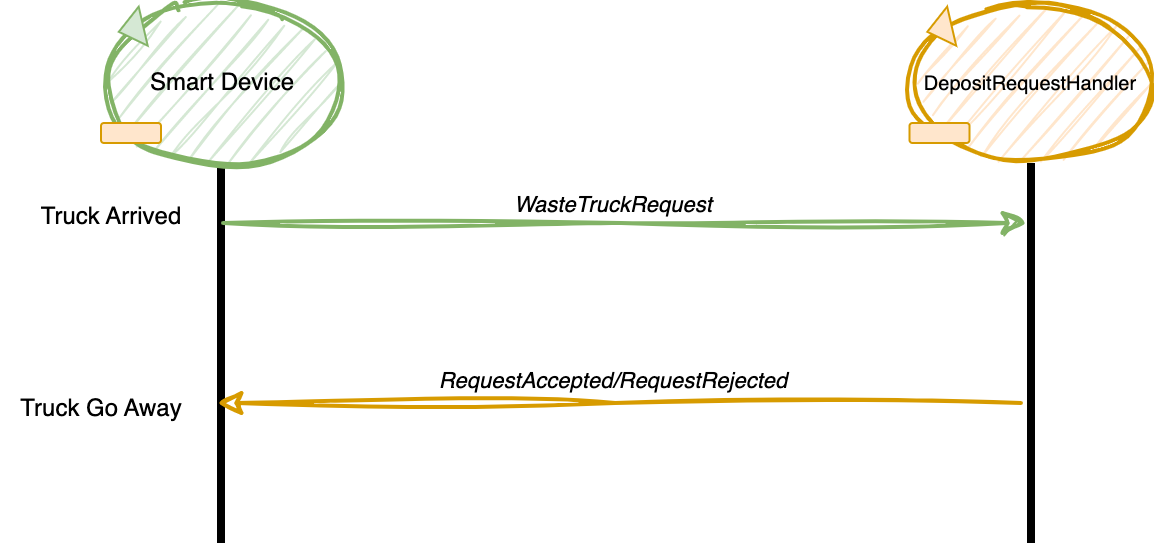
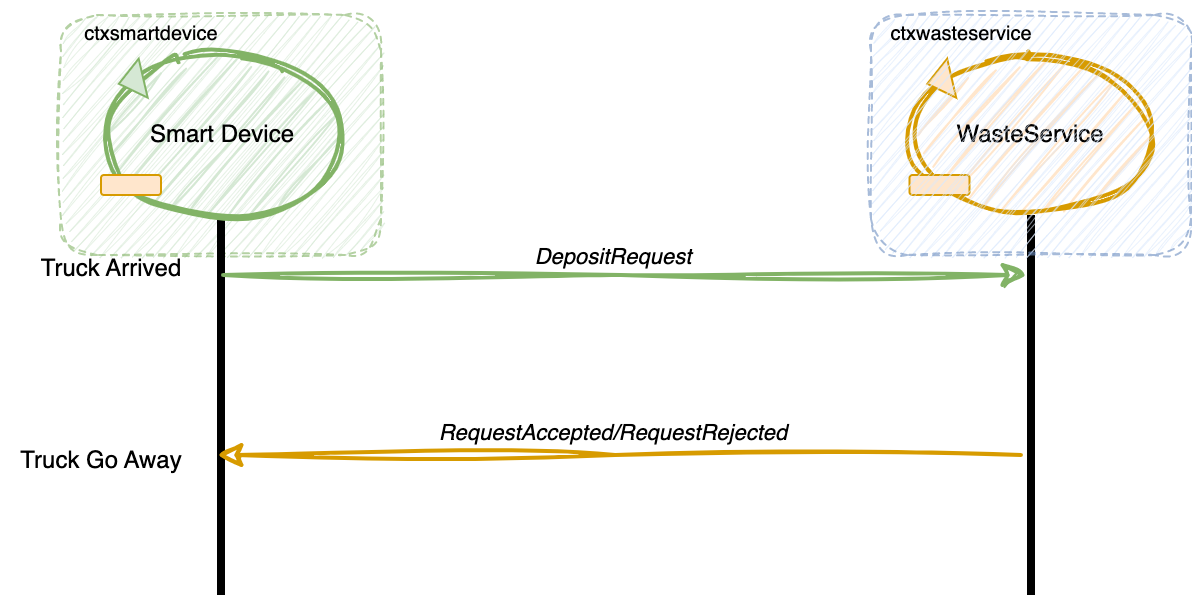
Sprint 0 - UserDocs: refactoring Sprint-0 V1.0 (WasteTruckRequest)

Changed region(s): [[0.0, 0.0, 1.0, 0.9963]]

diff --git a/Sprint-0/userDocs/Sprint0-LLA.html b/Sprint-0/userDocs/Sprint0-LLA.html
@@ -268,12 +268,13 @@ QActor transporttrolley context ctxwasteservice {
 
 <h3>WasteTruck</h3>
         <p> Entità che si presenta in INDOOR e richiede lo scarico del materiale che trasporta attraverso l’uso di uno
-            <r>Smart Device</r>.</p>
-        <p>E' un entità esterna al sistema ma che interagisce con il nostro <r>WasteService</r> per lo scarico dei rifiuti.</p>
-        <p>L'interazione tra il <r>Waste Truck</r> e il <r>WasteService</r> è fondamentale per i requisiti forniti, per cui:</p>
+            <r>Smart Device</r>, ovvero l'entità sofwtare che si occupa della sua interazione con il sistema.</p>
+        <p>Il <r>Waste Truck</r> è un entità esterna al sistema ma che interagisce con il nostro <r>WasteService</r> per lo scarico dei rifiuti.</p>
+        <p>Lo <r>Smart Device</r> non va implementato, ma l'interazione tra lo <r>Smart Device</r> e il <r>WasteService</r> è fondamentale per i requisiti forniti, per cui:</p>
         <ul>
-            <li>Si formalizza l'interazione con una interazione Request/Response -> <r>WasteTruckRequest</r></li>
-            <li>Si rappresenta il <r>Waste Truck</r> identificandolo con lo <i>SmartDevice</i> con un attore simulato che invia richieste al <r>WS</r></li>
+            <li>Si formalizza l'interazione con una interazione Request/Response</li>
+            <li>Il <r>Waste Truck</r> richiederà lo scarico di rifiuti tramite una <r>DepositRequest</r></li>
+            <li>Lo <i>Smart Device</i> verrà rappresentato e simulato con un attore che invia richieste al <r>WS</r></li>
         </ul>
 
         <!------------------------ ------------------------>
@@ -281,7 +282,7 @@ QActor transporttrolley context ctxwasteservice {
         <h3>WasteTruckRequest</h3>
 
         <p>Il <r>WasteService</r> e il <r>WasteTruck</r> sono in comunicazione tramite lo <r>Smart Device</r>.
-        Lo <r>Smart Device</r> effettuerà una <i>request</i> di deposito di materiale specificando il tipo di materiale e attenderà la risposta del <b>WasteService</b>.</p>
+            Lo <r>Smart Device</r> effettuerà una <i>request</i> (<r>DepositRequest</r>) di deposito di materiale specificando il tipo di materiale e attenderà la risposta del <b>WasteService</b>.</p>
         <ul>
             <li><code>loadaccepted</code>: richiesta accettata (quando è possibile gestirla/capacità Box non piena)</li>
             <li><code>loadrejecetd</code>: richiesta rifiutata (quando non è possibile gestirla/capacità Box piena)</li>
@@ -301,7 +302,7 @@ QActor transporttrolley context ctxwasteservice {
     </code></pre>
         <p>Spiegazione di ciascun messaggio:</p>
         <ul>
-            <li>Request <code>wasteDeposit</code>: comando che indica la richiesta di un deposito di rifiuti. I parametri inclusi nella richiesta sono l'ID del deposito, il tipo di rifiuti e il carico del camion.</li>
+            <li>Request <code>depositRequest</code>: comando che indica la richiesta di un deposito di rifiuti. I parametri inclusi nella richiesta sono l'ID del deposito, il tipo di rifiuti e il carico del camion.</li>
             <li>Reply <code>loadaccept</code>: risposta positiva alla richiesta di deposito dei rifiuti. L'ID incluso nella risposta corrisponde all'ID della richiesta di deposito.</li>
             <li>Reply <code>loadrejecetd</code>: risposta negativa alla richiesta di deposito dei rifiuti. L'ID incluso nella risposta corrisponde all'ID della richiesta di deposito.</li>
         </ul>
@@ -325,7 +326,7 @@ QActor transporttrolley context ctxwasteservice {
 
         <h5>WasteService</h5>
         <pre><code>
-QActor WasteService context ctxwasteservice{
+QActor wasteservice context ctxwasteservice{
 	State s0 initial {
 		...
 	} Goto waiting
@@ -339,15 +340,15 @@ QActor WasteService context ctxwasteservice{
 	} Goto pickingUp if[# accepted == true #] else requestRejected
 
 	State requestRejected {
-		//Si svincola il Truck
+		//Si svincola il Truck (reply loadrejecetd)
 	} Goto waiting
 
 	State pickingUp {
-		request transporttrolley -m pickupReq : pickupReq($ID, $T)
+		//Si chiede il pickup al Transport Trolley
 	} Transition t1 whenReply pickupOk -> pickupOk
 
 	State pickupOk {
-		replyTo wasteDeposit with loadaccept : loadaccept($ID)  //Moved here (V3.2)
+		//Si svincola il truck (reply loadaccept)
 	} Goto waiting
 }
 </code></pre>
@@ -390,9 +391,7 @@ QActor smartdevice context ctxsmartdevice{
         <p><a target="_blank" href="https://github.com/LucaLand/WasteService22-LLA/blob/dev/sprint-0/Sprint-0/SmartDeviceCtx_QAK/src/SmartDeviceCtx_v3.2.qak"> Metamodello QAK SmartDevice V3.2</a></p>
 
     <h4>Modello dell'interazione</h4>
-
         <img src="./img/WasteTruckRequest-V3.2.png" alt="DepositRequest V3.2 - New interaction model">
-        <img src="" alt="Qak Architecture">
 
 
     <h4>Modellazione <r>Transport Trolley</r></h4>
@@ -401,17 +400,20 @@ QActor smartdevice context ctxsmartdevice{
     Request pickupReq : pickupReq(ID, T)	//Richiesta di pickup di un relativo materiale
     Reply pickupOk : pickupOk(ID)		//Risposta di fine pickup, relativa ad una richiesta
         </code></pre>
+        <img src="./img/WasteService_TransportTrolley_Int.png" alt="WasteService interaction with TransportTrolley">
+        <p>A seguire il riferimento al metamodello eseguibile del contesto: <a target="_blank" href="https://github.com/LucaLand/WasteService22-LLA/blob/dev/sprint-0/Sprint-0/WasteServiceCtx_QAK/src/WasteServiceCtx_v3.3.qak">WasteServiceCtx_v3.3.qak</a></p>
 
-    <img src="" alt="WasteService Arch. V3.3">
+    <h4>Architettura</h4>
+        <img src="./img/Logical_Architecture_v2.png" alt="" style="width: 80vw">
 
-    <p>A seguire il riferimento al metamodello eseguibile del contesto: <a target="_blank" href="https://github.com/LucaLand/WasteService22-LLA/blob/dev/sprint-0/Sprint-0/WasteServiceCtx_QAK/src/WasteServiceCtx_v3.3.qak">WasteServiceCtx_v3.3.qak</a></p>
 
-    <h4>Modello dell'interazione (+TT)</h4>
-        <p>DepositRequest accettata:</p>
-        <img src="./img/WasteTruckRequest-V3.3-complete.png" alt="WasteService Interaction. V3.3">
+    <h4>Modello dell'interazione - Use cases</h4>
+        <ul><li>DepositRequest accettata</li></ul>
+        <img src="./img/WasteTruckRequest-complete-accept.png" alt="WasteService Interaction. V3.3" style="width: 70vw">
+        <br>
 
-        <p>DepositRequest rifiutata</p>
-        <img src="./img/WasteTruckRequest-V3.2-Reject-complete.png" alt="WasteService Interaction. V3.3">
+        <ul><li>DepositRequest Rifiutata</li></ul>
+        <img src="./img/WasteTruckRequest-complete-reject.png" alt="WasteService Interaction. V3.3" style="width: 70vw">
 
   <!------------------------ ------------------------>
 
